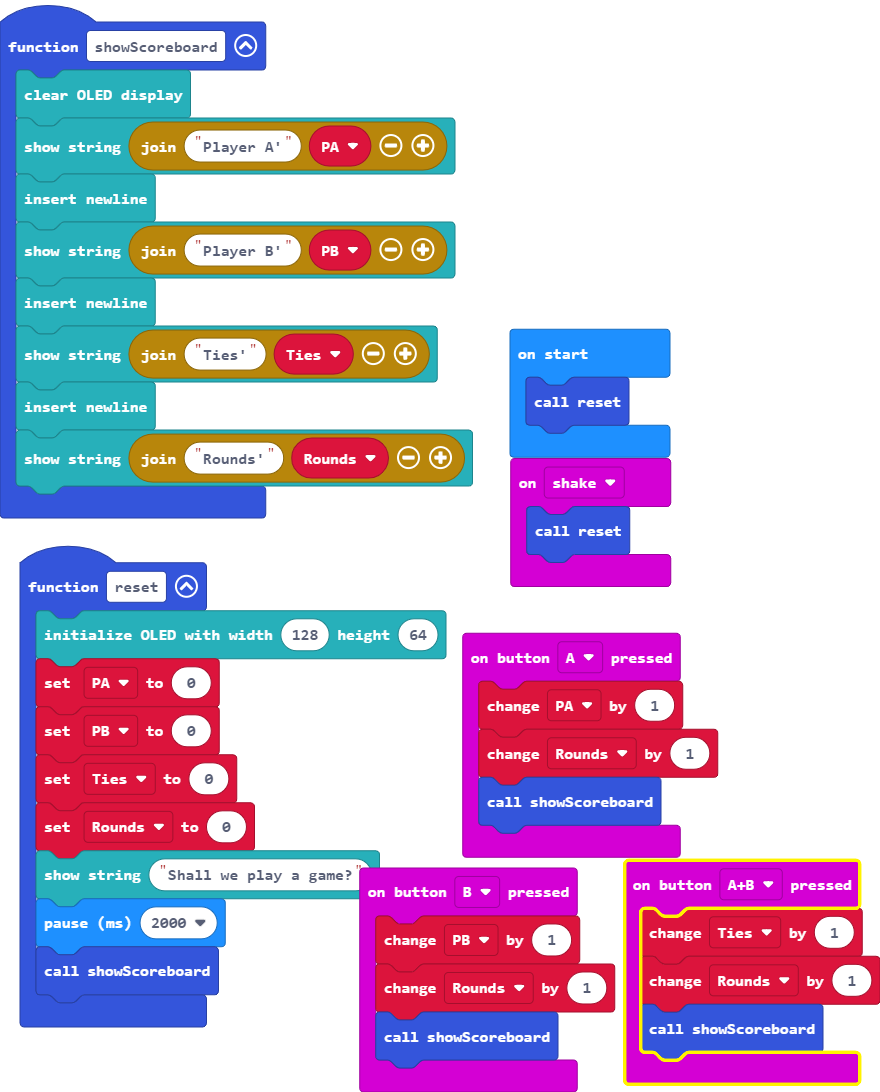
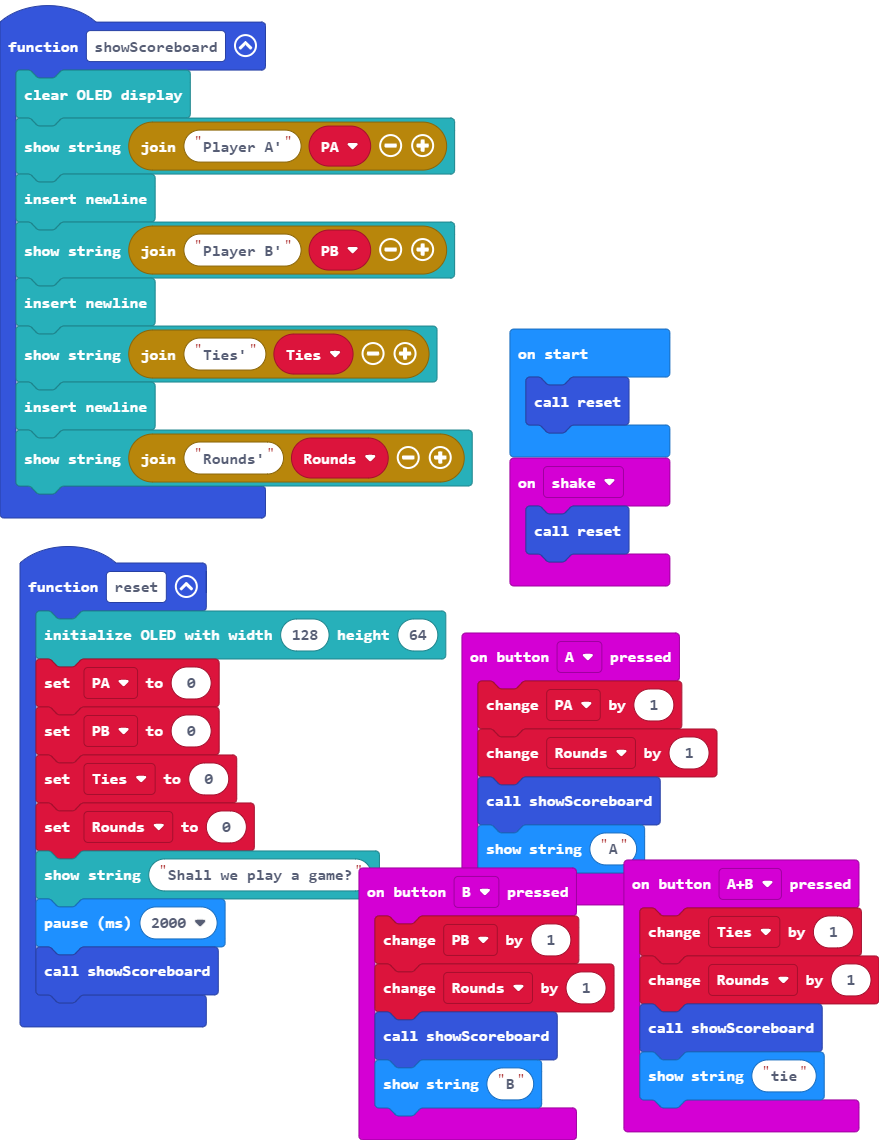
Update main.blocks, main.ts

diff --git a/main.ts b/main.ts
@@ -2,6 +2,7 @@ input.onButtonPressed(Button.A, function () {
     PA += 1
     Rounds += 1
     showScoreboard()
+    basic.showString("A")
 })
 function showScoreboard () {
     OLED.clear()
@@ -17,11 +18,13 @@ input.onButtonPressed(Button.AB, function () {
     Ties += 1
     Rounds += 1
     showScoreboard()
+    basic.showString("tie")
 })
 input.onButtonPressed(Button.B, function () {
     PB += 1
     Rounds += 1
     showScoreboard()
+    basic.showString("B")
 })
 input.onGesture(Gesture.Shake, function () {
     reset()
